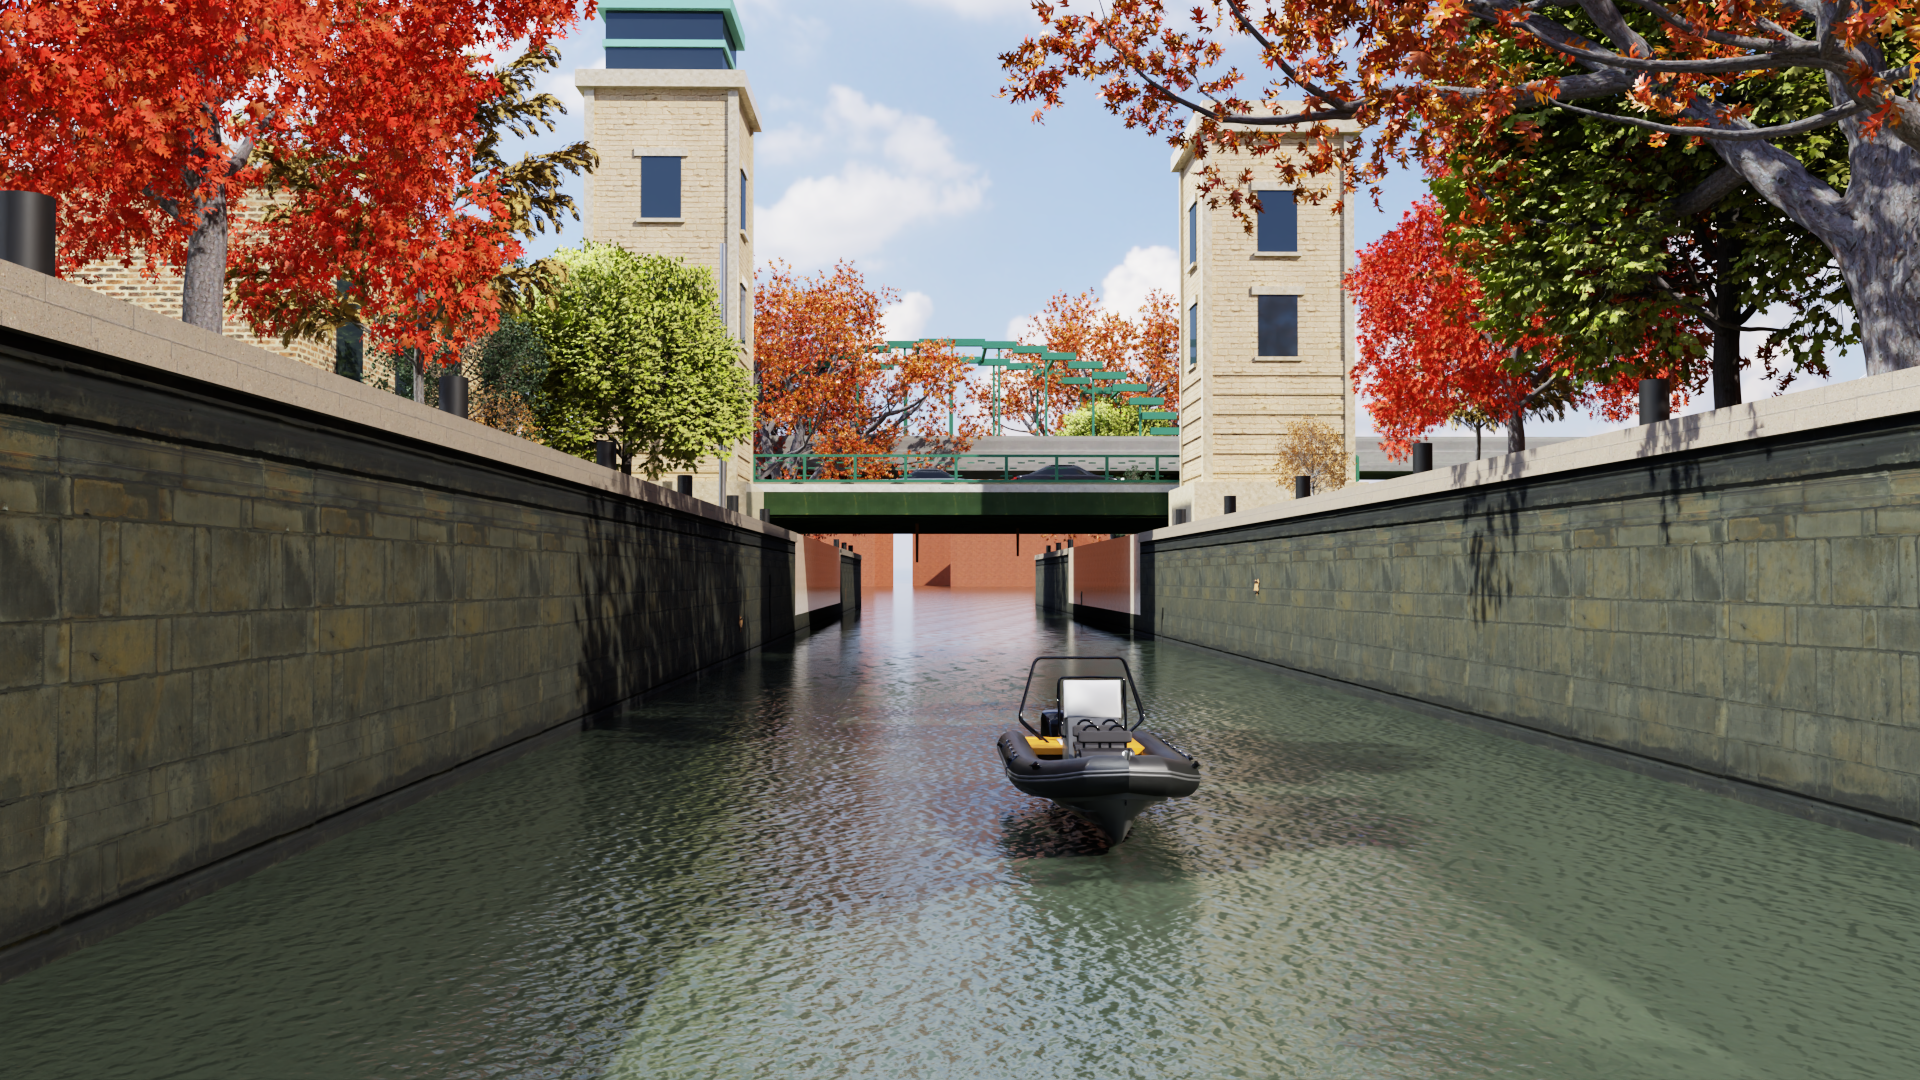
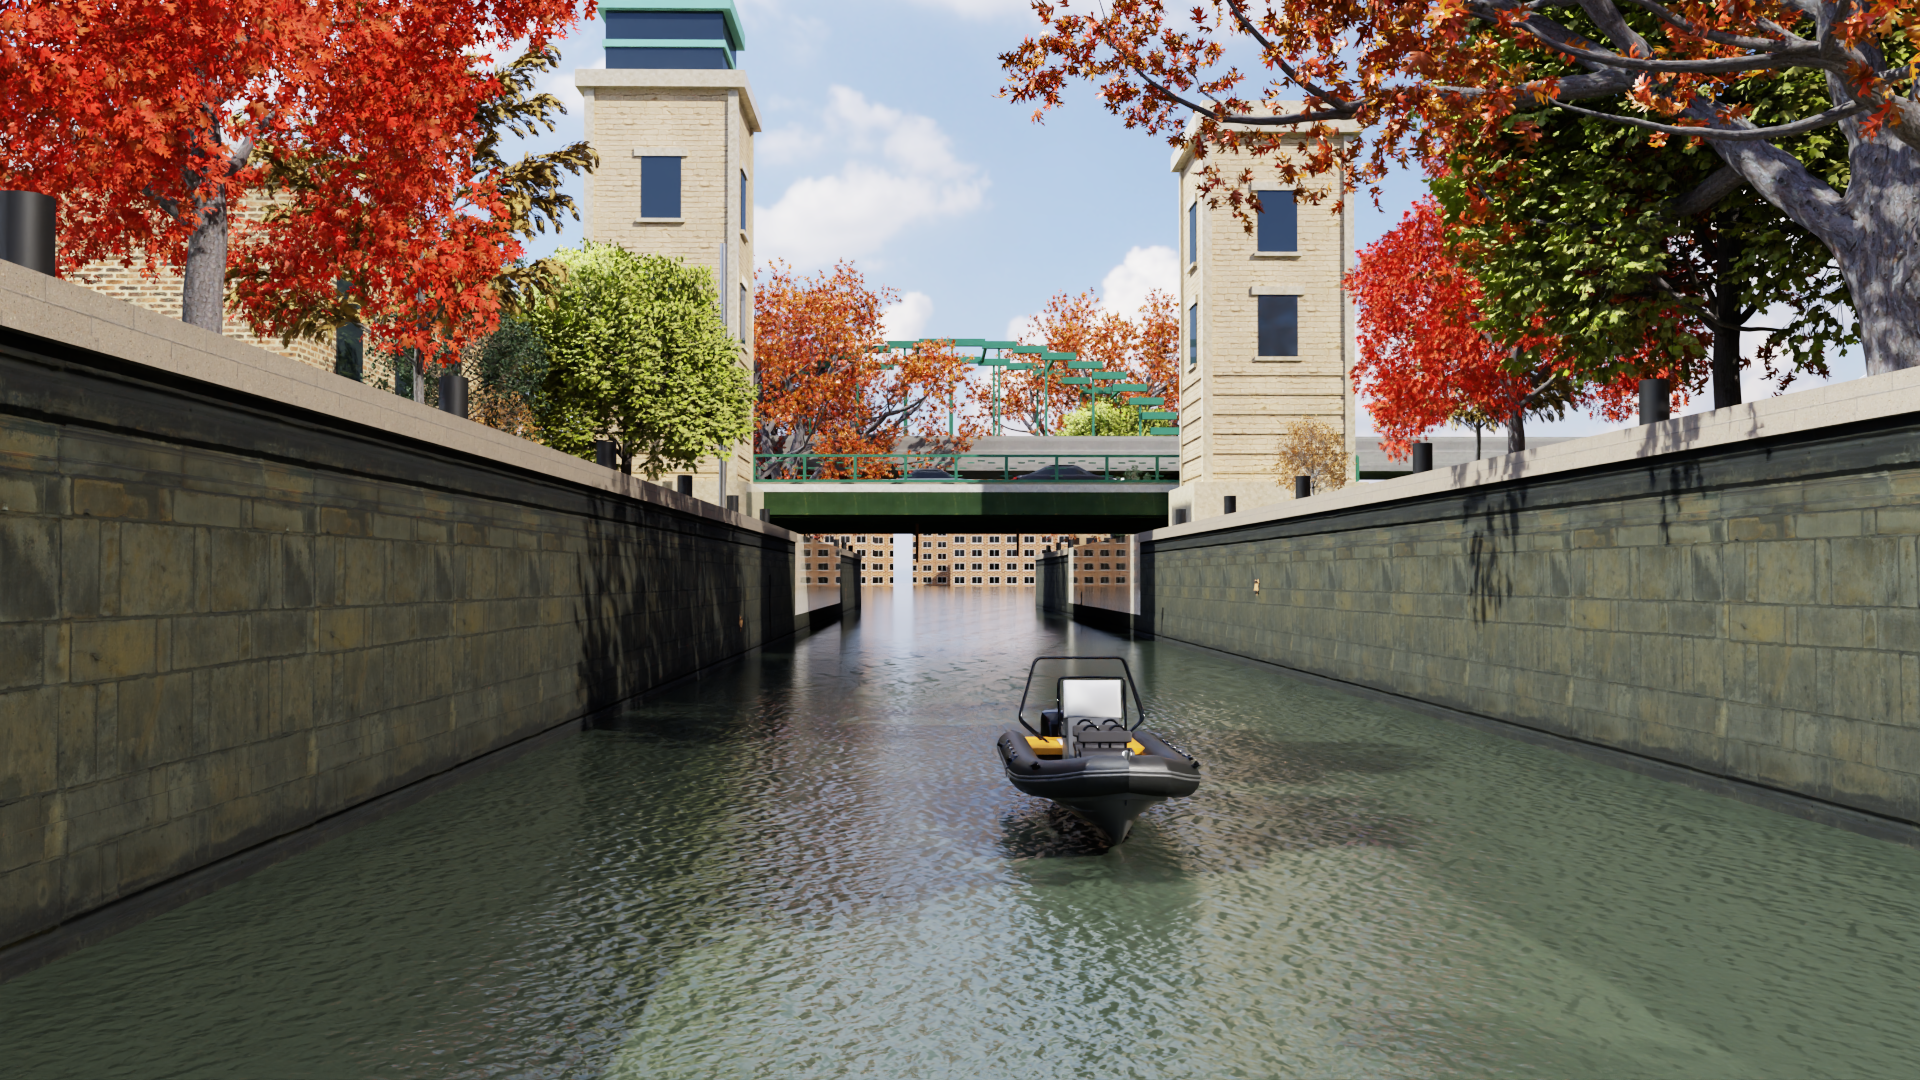
Facade textures with window grids for the Museum, TD Garden and city blocks

Changed region(s): [[0.4062, 0.4889, 0.5938, 0.55], [0.5312, 0.0306, 0.5938, 0.0917]]

diff --git a/sim/charles_dam_world.py b/sim/charles_dam_world.py
@@ -125,7 +125,8 @@ def scan(name, tile_m, tint=(1.0, 1.0, 1.0), metal=0.0, bump=1.0):
 M.update(wallscan=scan("large_sandstone_blocks", 3.2, (0.78, 0.78, 0.76)), towerscan=scan("white_sandstone_blocks_02", 2.2, (0.95, 0.88, 0.76)),
          steelscan=scan("green_metal_rust", 1.6, (0.85, 1.0, 0.9), metal=0.5), asphaltscan=scan("asphalt_02", 4.0),
          pavescan=scan("concrete_pavement", 2.5), brickscan=scan("brick_wall_02", 2.5, (1.0, 0.92, 0.8)), rustscan=scan("rusty_metal_02", 1.0, metal=0.6),
-         wetscan=scan("large_sandstone_blocks", 3.2, (0.26, 0.28, 0.21), bump=1.4))
+         wetscan=scan("large_sandstone_blocks", 3.2, (0.26, 0.28, 0.21), bump=1.4),
+         fac_brick=scan("facade_brick", 7.0), fac_stone=scan("facade_stone", 7.0), fac_museum=scan("facade_museum", 9.0))   # window grids, 3.5 m storeys
 
 
 def cbox(path, c, r, z, sc, sr, sz, m, dyaw=0.0):
@@ -304,7 +305,7 @@ for k, rr in enumerate(np.linspace(-11, 11, 6)):
 
 # ---------------------------------------------------------------- Museum of Science (brick, clock tower, planetarium dome) and the Zakim beyond
 MS = (-RT.DECK_W / 2 - 70.0, -60.0)                                          # on the dam, upstream-west of the canal
-cbox("/World/Museum/Main", MS[0], MS[1], 11.0, 90, 50, 22, M["brickred"])
+cbox("/World/Museum/Main", MS[0], MS[1], 11.0, 90, 50, 22, M["fac_museum"])
 cbox("/World/Museum/Glass", MS[0] + 45.1, MS[1], 12.0, 0.3, 46, 16, M["glass"])
 cbox("/World/Museum/Clock", MS[0] + 20, MS[1] + 18, 22.0, 9, 9, 44, M["brickred"])
 cbox("/World/Museum/ClockFace", MS[0] + 24.6, MS[1] + 18, 38.0, 0.1, 5, 5, M["white"])
@@ -331,15 +332,15 @@ for t_, dy in (("N", 60), ("S", -60)):
             c = UsdGeom.Cylinder.Define(st, f"/World/Zakim/Cab{t_}{k}_{side+1}"); c.CreateRadiusAttr(0.12); c.CreateHeightAttr(float(ln))
             xf = UsdGeom.Xformable(c); xf.AddTranslateOp().Set(Gf.Vec3d(*mid))
             xf.AddOrientOp(UsdGeom.XformOp.PrecisionDouble).Set(Gf.Quatd(Gf.Rotation(Gf.Vec3d(0, 0, 1), Gf.Vec3d(*((b - a) / ln))).GetQuat())); bind(c.GetPrim(), M["cable"])
-TD = RT.geo_to_world(42.36620, -71.06210); box("/World/City/TDGarden", (TD[0], TD[1], 18), (140, 110, 36), M["museum"])
-SKY_M = [M["brickred"], PR.omnipbr(st, "/World/M/bld3", (0.10, 0.13, 0.16), 0.08, 0.6), PR.omnipbr(st, "/World/M/bld4", (0.55, 0.57, 0.6), 0.2, 0.5), M["museum"]]
+TD = RT.geo_to_world(42.36620, -71.06210); box("/World/City/TDGarden", (TD[0], TD[1], 18), (140, 110, 36), M["fac_stone"])
+SKY_M = [M["fac_brick"], PR.omnipbr(st, "/World/M/bld3", (0.10, 0.13, 0.16), 0.08, 0.6), PR.omnipbr(st, "/World/M/bld4", (0.55, 0.57, 0.6), 0.2, 0.5), M["museum"]]
 DT = RT.geo_to_world(42.3570, -71.0600)
 for i in range(60):
     c = DT + np.array([rng.normal(0, 260), rng.normal(0, 200), 0]); h = float(rng.uniform(40, 200))
     box(f"/World/City/Tower{i}", (c[0], c[1], h / 2), (rng.uniform(25, 50), rng.uniform(25, 50), h), SKY_M[1 if h > 80 else int(rng.integers(0, 4))])
 for i in range(80):
     ang = rng.uniform(0, 6.283); r = rng.uniform(320, 520); c = np.array([r * math.cos(ang), r * math.sin(ang)]); h = float(rng.uniform(10, 30))
-    box(f"/World/City/Low{i}", (c[0], c[1], h / 2), (rng.uniform(20, 45), rng.uniform(20, 45), h), SKY_M[int(rng.choice([0, 0, 3, 2]))], rot_z=math.degrees(ang))
+    box(f"/World/City/Low{i}", (c[0], c[1], h / 2), (rng.uniform(20, 45), rng.uniform(20, 45), h), [M["fac_brick"], M["fac_stone"], M["fac_brick"], SKY_M[2]][int(rng.integers(0, 4))], rot_z=math.degrees(ang))
 
 # ---------------------------------------------------------------- defects (ground truth): canal walls and drawbridge steel
 DEFECTS = []
